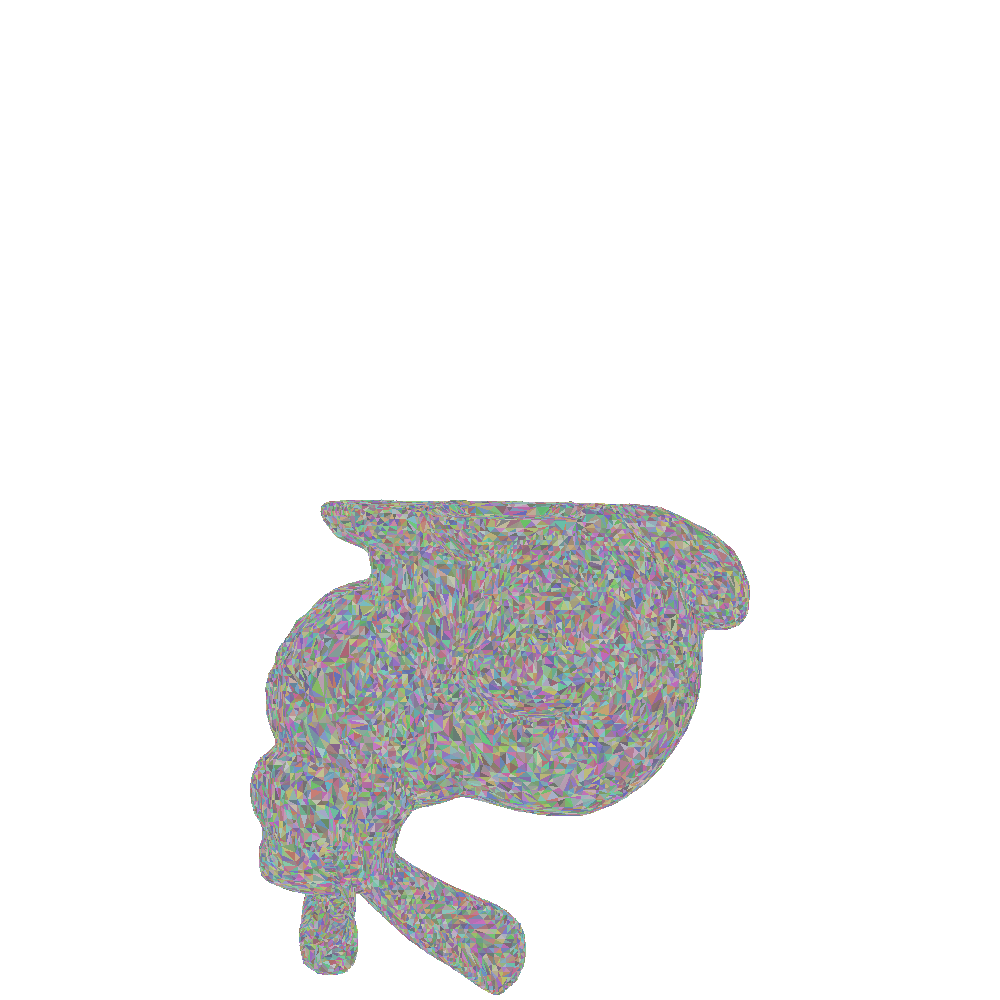
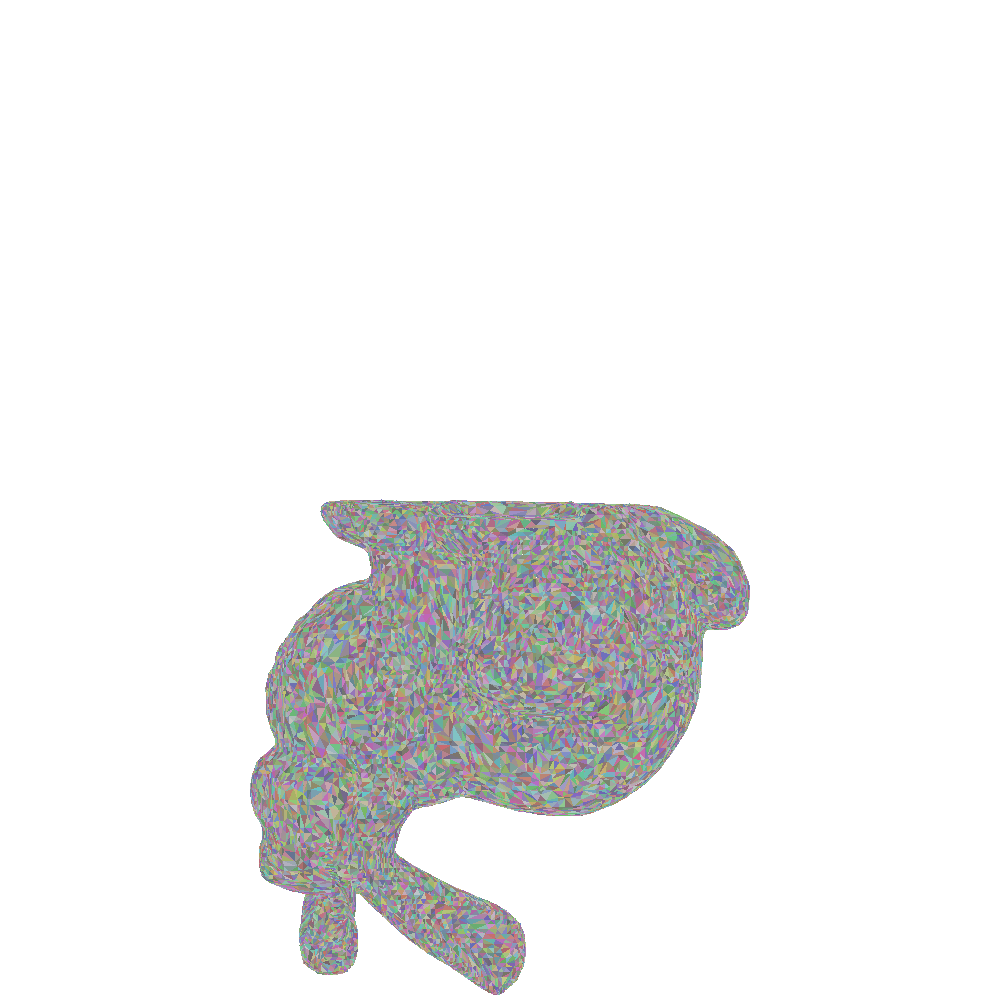
Light

Changed region(s): [[0.248, 0.496, 0.775, 0.992]]

diff --git a/LabaPython/Graphic Design.py b/LabaPython/Graphic Design.py
@@ -150,95 +150,97 @@ print("2 task ended up successfully")
 # region
 
 # Vertices
-with open("model_1.obj",'r') as f:
+#with open("model_1.obj",'r') as f:
 
-    n = 1000
-    m = 1000
-    img = np.full((n, m), 255, dtype=np.uint8)
-    Vectors = []
-    Data = f.readlines()
+#    n = 1000
+#    m = 1000
+#    img = np.full((n, m), 255, dtype=np.uint8)
+#    Vectors = []
+#    Data = f.readlines()
 
-    print("3 task ended up successfully")
+#    print("3 task ended up successfully")
     
-    for line in Data:
-        if(line[0]=='v'):
-            Vectors.append(line[2:-1])
+#    for line in Data:
+#        if(line[0]=='v' and line[1]==' '):
+#            Vectors.append(line[2:-1])
 
-    for line in Vectors:
-        xyz = line.split()
-        x = int(5*n*float(xyz[1]) + n/2)
-        y = int(5*m*float(xyz[0]) + m/2)
+#    for line in Vectors:
+#        xyz = line.split()
+#        x = int(5*n*float(xyz[1]) + n/2)
+#        y = int(5*m*float(xyz[0]) + m/2)
 
-        if (x >= 0 and x < n and y >= 0 and y < m):
-            img[x,y] = 0
+#        if (x >= 0 and x < n and y >= 0 and y < m):
+#            img[x,y] = 0
 
-    image = Image.fromarray(img,'L')
-    image.save("Task4Image.png")
+#    image = Image.fromarray(img,'L')
+#    image.save("Task4Image.png")
 
-print("4 task ended up successfully")
+#print("4 task ended up successfully")
 
 def DrawLine(x0, y0, x1, y1):
     x_loop_line(x0, y0, x1, y1)
 
-def DrawPolygon(points):
+def DrawPolygon(polygon):
 
-    line1 = lines[int(points[0])-1]
-    line2 = lines[int(points[1])-1]
-    line3 = lines[int(points[2])-1]
+    line1 = lines[int(polygon[0])-1]
+    line2 = lines[int(polygon[1])-1]
+    line3 = lines[int(polygon[2])-1]
 
     DrawLine(line1[0], line1[1], line2[0], line2[1])
     DrawLine(line2[0], line2[1], line3[0], line3[1])
     DrawLine(line3[0], line3[1], line1[0], line1[1])
 
 # Polygons
-with open("model_1.obj",'r') as f:
+#with open("model_1.obj",'r') as f:
 
-    n = 1000
-    m = 1000
-    img = np.full((n, m), 255, dtype=np.uint8)
-    Data = f.readlines()
+#    n = 1000
+#    m = 1000
+#    img = np.full((n, m), 255, dtype=np.uint8)
+#    Data = f.readlines()
     
-    VectorsF = []
-    Polygons = []
+#    VectorsF = []
+#    Polygons = []
 
-    for line in Data:
-        if(line[0]=='f'):
-            VectorsF.append(line[2:-1])
+#    for line in Data:
+#        if(line[0]=='f'):
+#            VectorsF.append(line[2:-1])
 
-    for line in VectorsF:
-        xyz = line.split()
-        numbers = []
+#    for line in VectorsF:
+#        xyz = line.split()
+#        numbers = []
 
-        for i in xyz:
-            numbers.append(i.split('/')[0])
+#        for i in xyz:
+#            numbers.append(i.split('/')[0])
 
-        Polygons.append(numbers)
+#        Polygons.append(numbers)
 
-    print("5 task ended up successfully")
+#    print("5 task ended up successfully")
 
-    VectorsV = []
-    lines = []
+#    VectorsV = []
+#    lines = []
 
-    for line in Data:
-        if(line[0]=='v'):
-            VectorsV.append(line[2:-1])
+#    for line in Data:
+#        if(line[0]=='v' and line[1]==' '):
+#            VectorsV.append(line[2:-1])
 
-    for line in VectorsV:
-        xyz = line.split()
-        x = int(5*n*float(xyz[1]) + n/2)
-        y = int(5*m*float(xyz[0]) + m/2)
-        lines.append([x,y])
+#    for line in VectorsV:
+#        xyz = line.split()
+#        x = int(5*n*float(xyz[1]) + n/2)
+#        y = int(5*m*float(xyz[0]) + m/2)
+#        lines.append([x,y])
         
-    for i in Polygons:
-        DrawPolygon(i)
+#    for i in Polygons:
+#        DrawPolygon(i)
         
-    image = Image.fromarray(img,'L')
-    image.save("Task6Image.png")
+#    image = Image.fromarray(img,'L')
+#    image.save("Task6Image.png")
 
-print("6 task ended up successfully")
+#print("6 task ended up successfully")
 
 #endregion
 
+# Colorful Models
+#region
 
 def Barycentering(x, y, x0, y0, x1, y1, x2, y2):
 
@@ -253,7 +255,7 @@ def Barycentering(x, y, x0, y0, x1, y1, x2, y2):
 
     lambda0 = ((x1 - x2)*(y - y2) - (y1 - y2)*(x - x2)) / ((x1 - x2)*(y0 - y2) - (y1 - y2)*(x0 - x2))
     lambda1 = ((x2 - x0)*(y - y0) - (y2 - y0)*(x - x0)) / ((x2 - x0)*(y1 - y0) - (y2 - y0)*(x1 - x0))
-    lambda2 = ((x0 - x1)*(y - y1) - (y0 - y1)*(x - x1)) / ((x0 - x1)*(y2 - y1) - (y0 - y1)*(x2 - x1))
+    lambda2 = 1.0 - lambda0 - lambda1
 
     return (lambda0, lambda1, lambda2)
 
@@ -276,7 +278,7 @@ def Rectangle(x0, y0, x1, y1, x2, y2):
     if (ymax > (m - 1)):
         ymax = m - 1
 
-    return(xmin, xmax, ymin, ymax)
+    return(int(xmin), int(xmax), int(ymin), int(ymax))
 
 def DrawPixel(x, y, x0, y0, x1, y1, x2, y2, color):
 
@@ -285,25 +287,137 @@ def DrawPixel(x, y, x0, y0, x1, y1, x2, y2, color):
     if (VectorBar[0] >= 0 and VectorBar[1] >= 0 and VectorBar[2] >= 0):
         img[x, y] = color
 
-def ColorPolygon(i):
+def ColorPolygon(polygon):
 
-    line1 = lines[int(i[0])-1]
-    line2 = lines[int(i[1])-1]
-    line3 = lines[int(i[2])-1]
+    line1 = lines[int(polygon[0])-1]
+    line2 = lines[int(polygon[1])-1]
+    line3 = lines[int(polygon[2])-1]
 
-    x0 = int(line1[0])
-    y0 = int(line1[1])
-    x1 = int(line2[0])
-    y1 = int(line2[1])
-    x2 = int(line3[0])
-    y2 = int(line3[1])
+    x0 = line1[0]
+    y0 = line1[1]
+    x1 = line2[0]
+    y1 = line2[1]
+    x2 = line3[0]
+    y2 = line3[1]
 
-    space = Rectangle(x0, y0, x1, y1, x2, y2)
+    rect = Rectangle(x0, y0, x1, y1, x2, y2)
     color = (randint(100, 200), randint(100, 200), randint(100, 200))
 
-    for i in range(space[0], space[1]):
-        for j in range(space[2], space[3]):
+    for i in range(rect[0], rect[1]):
+        for j in range(rect[2], rect[3]):
             DrawPixel(i, j, x0, y0, x1, y1, x2, y2, color)
+
+#with open("model_1.obj",'r') as f:
+
+#    n = 1000
+#    m = 1000
+#    img = np.full((n, m, 3), (255, 255, 255), dtype=np.uint8)
+#    Data = f.readlines()
+    
+#    VectorsF = []
+#    Polygons = []
+
+#    for line in Data:
+#        if(line[0]=='f'):
+#            VectorsF.append(line[2:-1])
+
+#    for line in VectorsF:
+#        xyz = line.split()
+#        numbers = []
+
+#        for i in xyz:
+#            numbers.append(i.split('/')[0])
+
+#        Polygons.append(numbers)
+
+#    VectorsV = []
+#    lines = []
+
+#    for line in Data:
+#        if(line[0]=='v' and line[1]==' '):
+#            VectorsV.append(line[2:-1])
+
+#    for line in VectorsV:
+#        xyz = line.split()
+#        x = int(5*n*float(xyz[1]) + n/2)
+#        y = int(5*m*float(xyz[0]) + m/2)
+#        lines.append([x,y])
+        
+#    for i in Polygons:
+#        ColorPolygon(i)
+        
+#    image = Image.fromarray(img,'RGB')
+#    image.save("Task10Image.png")
+
+#print("7-10 tasks ended up successfully")
+
+#endregion
+
+# Light Models
+#region
+
+def CosPolygon(polygon):
+    
+    light = [0, 0, 1]
+
+    line1 = lines[int(polygon[0])-1]
+    line2 = lines[int(polygon[1])-1]
+    line3 = lines[int(polygon[2])-1]
+
+    x0 = line1[0]
+    y0 = line1[1]
+    z0 = line1[2]
+    x1 = line2[0]
+    y1 = line2[1]
+    z1 = line2[2]
+    x2 = line3[0]
+    y2 = line3[1]
+    z2 = line3[2]
+
+    xn = (y1 - y0)*(z1 - z2) - (y1 - y2)*(z1 - z0)
+    yn = (x1 - x2)*(z1 - z0) - (x1 - x0)*(z1 - z2)
+    zn = (x1 - x0)*(y1 - y2) - (x1 - x2)*(y1 - y0)
+
+    if (xn**2 + yn**2 + zn**2 != 0):
+        return (light[0]*xn + light[1]*yn + light[2]*zn) / math.sqrt(xn**2 + yn**2 + zn**2)
+    else:
+        return 1
+
+def DrawPixelWithBuffer(x, y, x0, y0, z0, x1, y1, z1, x2, y2, z2, color):
+
+    VectorBar = Barycentering(x, y, x0, y0, x1, y1, x2, y2)
+
+    if (VectorBar[0] >= 0 and VectorBar[1] >= 0 and VectorBar[2] >= 0):
+        ZBarKoef = VectorBar[0]*z0 + VectorBar[1]*z1 + VectorBar[2]*z2
+
+        if ZBarKoef <= ZBuffer[x][y]:
+            ZBuffer[x][y] = ZBarKoef
+            img[x, y] = color
+
+def LightPolygon(polygon, color):
+
+    line1 = lines[int(polygon[0])-1]
+    line2 = lines[int(polygon[1])-1]
+    line3 = lines[int(polygon[2])-1]
+
+    CosLight = CosPolygon(polygon)
+
+    x0 = line1[0]
+    y0 = line1[1]
+    z0 = line1[2]
+    x1 = line2[0]
+    y1 = line2[1]
+    z1 = line2[2]
+    x2 = line3[0]
+    y2 = line3[1]
+    z2 = line3[2]
+
+    rect = Rectangle(x0, y0, x1, y1, x2, y2)
+    color = (-color[0]*CosLight, -color[1]*CosLight, -color[2]*CosLight)
+
+    for i in range(rect[0], rect[1]):
+        for j in range(rect[2], rect[3]):
+            DrawPixelWithBuffer(i, j, x0, y0, z0, x1, y1, z1, x2, y2, z2, color)
 
 with open("model_1.obj",'r') as f:
 
@@ -311,6 +425,7 @@ with open("model_1.obj",'r') as f:
     m = 1000
     img = np.full((n, m, 3), (255, 255, 255), dtype=np.uint8)
     Data = f.readlines()
+    ZBuffer = [[n for x in range(n)] for x in range(n)]
     
     VectorsF = []
     Polygons = []
@@ -332,22 +447,23 @@ with open("model_1.obj",'r') as f:
     lines = []
 
     for line in Data:
-        if(line[0]=='v'):
+        if(line[0]=='v' and line[1]==' '):
             VectorsV.append(line[2:-1])
 
     for line in VectorsV:
         xyz = line.split()
         x = int(5*n*float(xyz[1]) + n/2)
         y = int(5*m*float(xyz[0]) + m/2)
-        lines.append([x,y])
+        z = int(5*n*float(xyz[2]))
+        lines.append([x, y, z])
         
     for i in Polygons:
-        ColorPolygon(i)
+        if (CosPolygon(i) < 0):
+            LightPolygon(i, (150, 150, 150))
         
     image = Image.fromarray(img,'RGB')
-    image.save("Task10Image.png")
+    image.save("Task14Image.png")
 
-print("7-10 tasks ended up successfully")
+print("11-14 tasks ended up successfully")
 
-    
-
+#endregion
